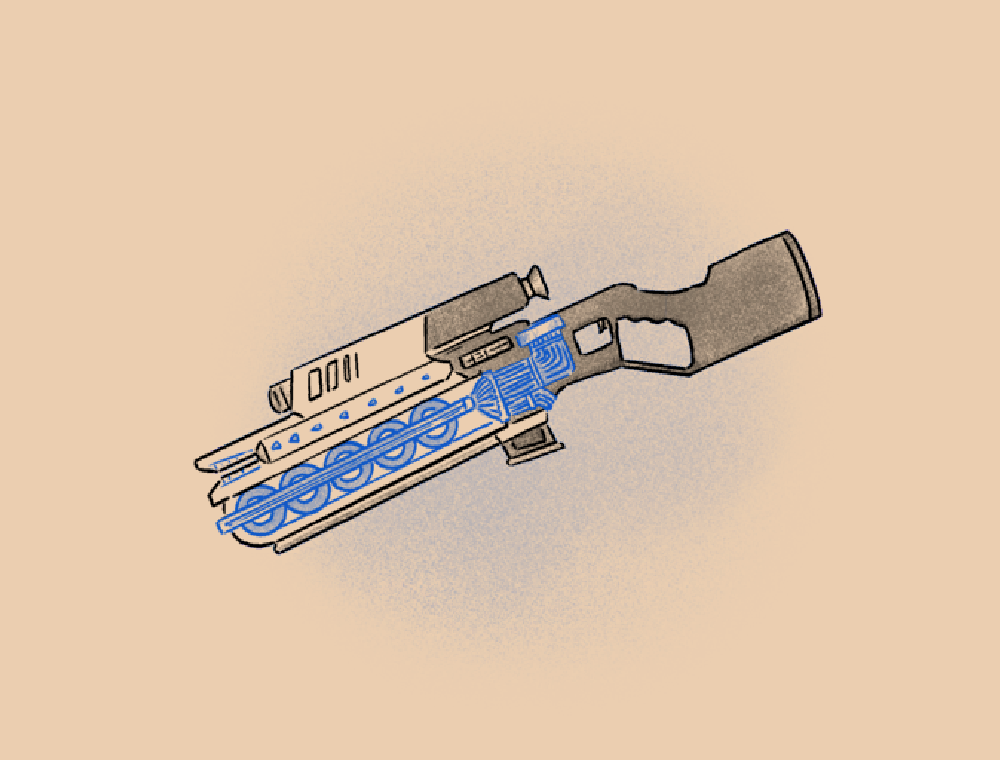
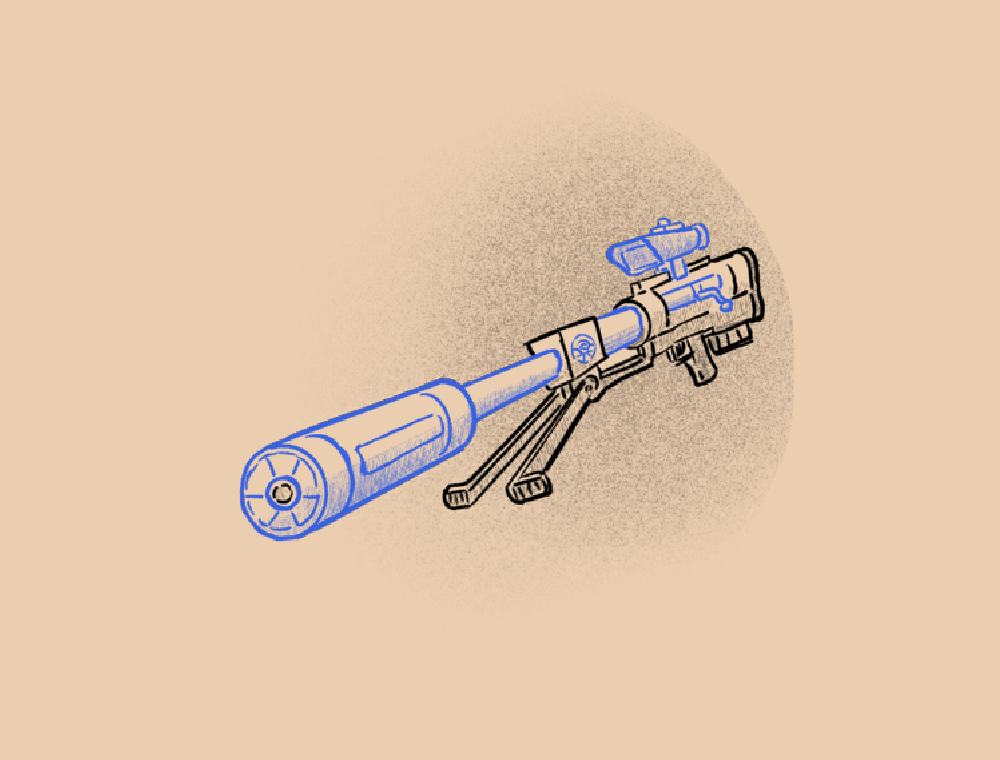
英文词条译名对齐：增幅=Kick、回响=Rebound（含卡面引用）

Changed region(s): [[0.186, 0.2118, 0.837, 0.8171]]

diff --git a/GaoshouCode/Patches/PhantomPortraitPatch.cs b/GaoshouCode/Patches/PhantomPortraitPatch.cs
@@ -1,0 +1,68 @@
+using Godot;
+using Gaoshou.Keywords;
+using MegaCrit.Sts2.Core.Models;
+using STS2RitsuLib.Patching.Models;
+using STS2RitsuLib.Scaffolding.Content;
+
+namespace Gaoshou.Patches;
+
+/// <summary>
+/// 幻影副本按"分配到的单色"切换卡面。
+///
+/// 背景：双色卡的幻影/复制品在创建时会被 <see cref="PhantomColorRegistry" /> 分配**一个**主色
+/// （<c>PhantomCloneColorPatch</c> / <c>PhantomSingleton</c> 两处登记），mana 释义与[gold]流转[/gold]判定
+/// 都已经按它走；只有**卡面**还是本体那张双色图。这里补上卡面：
+/// 若该卡实例有分配色，且存在对应的单色图 <c>res://Gaoshou/images/cards/&lt;类名&gt;_&lt;色码&gt;.png</c>
+/// （色码 R/B/P/G，对应 <see cref="GaoshouCardColor" /> 的四个单色），就用它替换立绘路径；否则原样返回。
+///
+/// 挂钩点：<c>ModCardTemplate.CustomPortraitPath</c>（RitsuLib 的虚属性，见 STS2-RitsuLib 源码
+/// <c>ModCardTemplate.cs:65</c>）。本模组所有卡牌都没有覆写它 → 打在基类 getter 上即可覆盖全部卡牌；
+/// 其它模组的卡与本模组没做单色图的卡都不受影响（找不到图就回落）。
+/// </summary>
+public sealed class PhantomPortraitPatch : IPatchMethod
+{
+    public static string PatchId => "gaoshou_phantom_portrait";
+
+    public static string Description => "phantom copies of dual-color cards use their assigned single-color art";
+
+    public static bool IsCritical => false;
+
+    public static ModPatchTarget[] GetTargets() =>
+    [
+        PatchTarget.Method<ModCardTemplate>("get_CustomPortraitPath"),
+    ];
+
+    public static void Postfix(ModCardTemplate __instance, ref string? __result)
+    {
+        if (__instance == null)
+            return;
+
+        if (!PhantomColorRegistry.TryGet(__instance, out var color))
+            return;
+
+        var variant = VariantPath(__instance, color);
+        if (variant != null)
+            __result = variant;
+    }
+
+    /// <summary>单色 → 文件名后缀；找不到对应图（或不是单色）时返回 null，调用方保持原卡面。</summary>
+    private static string? VariantPath(CardModel card, GaoshouCardColor color)
+    {
+        var suffix = color switch
+        {
+            GaoshouCardColor.Red => "R",
+            GaoshouCardColor.Blue => "B",
+            GaoshouCardColor.Purple => "P",
+            GaoshouCardColor.Green => "G",
+            _ => null,
+        };
+
+        if (suffix == null)
+            return null;
+
+        var path = $"{Entry.ResPath}/images/cards/{card.GetType().Name}_{suffix}.png";
+
+        // 没做单色图的卡（目前只有杠杆霰弹枪做了 R/P）自动回落本体卡面，不会出现空图。
+        return ResourceLoader.Exists(path) ? path : null;
+    }
+}

diff --git a/GaoshouCode/Cards/Acupoint.cs b/GaoshouCode/Cards/Acupoint.cs
@@ -12,7 +12,7 @@ using STS2RitsuLib.Scaffolding.Content;
 
 namespace Gaoshou.Cards;
 
-// 点穴手：技能（普通）。耗 1 能量。施加 1 层虚弱、1 层易伤。增幅2（升级后4）。
+// 点穴手：技能（普通）。耗 1 能量。施加 1 层虚弱、1 层易伤。增幅1（升级后2）。
 // 增幅机制（弃置手牌后重复打出）暂未实装，仅展示词条与数值。
 [RegisterCard(typeof(GaoshouCardPool))]
 public sealed class Acupoint : ModCardTemplate
@@ -42,7 +42,7 @@ public sealed class Acupoint : ModCardTemplate
     [
         ModCardVars.Power<WeakPower>(1),
         ModCardVars.Power<VulnerablePower>(1),
-        ModCardVars.Int("AmplifyCount", 2),
+        ModCardVars.Int("AmplifyCount", 1),
     ];
 
     public Acupoint() : base(BaseEnergyCost, CardKind, CardRarityValue, CardTarget, ShowInCardLibrary)
@@ -64,13 +64,13 @@ public sealed class Acupoint : ModCardTemplate
         ArgumentNullException.ThrowIfNull(cardPlay.Target);
         await MainOnceAsync(choiceContext, cardPlay);
 
-        // 增幅 2(4)：弃置手牌中最多 AmplifyCount 张，然后按实际弃置数重放。
+        // 增幅 1(2)：弃置手牌中最多 AmplifyCount 张，然后按实际弃置数重放。
         var amplifyCount = (int)DynamicVars.GetRequired<IntVar>("AmplifyCount").BaseValue;
         await this.AmplifyAsync(choiceContext, amplifyCount, ctx => MainOnceAsync(ctx, cardPlay));
     }
 
     protected override void OnUpgrade()
     {
-        DynamicVars.GetRequired<IntVar>("AmplifyCount").UpgradeValueBy(2);   // 2 -> 4
+        DynamicVars.GetRequired<IntVar>("AmplifyCount").UpgradeValueBy(1);   // 1 -> 2
     }
 }

diff --git a/GaoshouCode/Cards/Breath.cs b/GaoshouCode/Cards/Breath.cs
@@ -11,8 +11,8 @@ using STS2RitsuLib.Scaffolding.Content;
 
 namespace Gaoshou.Cards;
 
-// 呼吸：技能（罕见）。耗 1 能量（升级 0）。
-// 若被打出：抽 4 张牌，消耗。若被弃置：获得 1 能量（不消耗）。
+// 呼吸：技能（罕见）。耗 1 能量。
+// 若被打出：抽 3（4） 张牌，消耗。若被弃置：获得 1 能量（不消耗）。
 [RegisterCard(typeof(GaoshouCardPool))]
 public sealed class Breath : ModCardTemplate
 {
@@ -36,7 +36,7 @@ public sealed class Breath : ModCardTemplate
     protected override IEnumerable<DynamicVar> CanonicalVars =>
     [
         ModCardVars.Energy("Energy", 1),
-        ModCardVars.Int("Cards", 4),
+        ModCardVars.Int("Cards", 3),
     ];
 
     public Breath() : base(BaseEnergyCost, CardKind, CardRarityValue, CardTarget, ShowInCardLibrary)
@@ -45,7 +45,7 @@ public sealed class Breath : ModCardTemplate
 
     protected override async Task OnPlay(PlayerChoiceContext choiceContext, CardPlay cardPlay)
     {
-        // 若被打出：抽 4 张牌（消耗由 Exhaust 词条处理）。
+        // 若被打出：抽 3（4） 张牌（消耗由 Exhaust 词条处理）。
         await CardPileCmd.Draw(choiceContext, DynamicVars.GetRequired<IntVar>("Cards").BaseValue, Owner);
     }
 
@@ -59,6 +59,7 @@ public sealed class Breath : ModCardTemplate
 
     protected override void OnUpgrade()
     {
-        EnergyCost.UpgradeBy(-1);   // 能量 1 -> 0
+        // EnergyCost.UpgradeBy(-1);   // 能量 1 -> 0
+        DynamicVars.GetRequired<IntVar>("Cards").UpgradeValueBy(1);
     }
 }

diff --git a/GaoshouCode/Cards/SlowSword.cs b/GaoshouCode/Cards/SlowSword.cs
@@ -62,14 +62,19 @@ public override CardAssetProfile AssetProfile => new(
     {
         await CreatureCmd.GainBlock(Owner.Creature, DynamicVars.Block, cardPlay);
 
-        // 奇迹：非回合开始时抽牌进入手牌 → 对随机敌人造成 10(15) 点伤害。
+        // 奇迹：非回合开始时抽牌进入手牌 → 对~~随机~~所有敌人造成 10(15) 点伤害。
         if (MiracleCounter.IsMiracleReady(this))
         {
-            var enemies = (this.CombatState?.HittableEnemies ?? []).ToList();
+            /*var enemies = (this.CombatState?.HittableEnemies ?? []).ToList();
             var random = enemies.Count > 0 ? Owner.RunState.Rng.CombatTargets.NextItem(enemies) : null;
             if (random != null)
                 await DamageCmd.Attack(DynamicVars.GetRequired<DamageVar>("miracle").BaseValue)
                     .FromCard(this, cardPlay).Targeting(random).Execute(choiceContext);
+                    */
+            await DamageCmd.Attack(DynamicVars.GetRequired<DamageVar>("miracle").BaseValue)
+                .FromCard(this, cardPlay)
+                .TargetingAllOpponents(this.CombatState)
+                .Execute(choiceContext);
         }
     }
 

diff --git a/GaoshouCode/Cards/Reconsider.cs b/GaoshouCode/Cards/Reconsider.cs
@@ -12,14 +12,14 @@ using STS2RitsuLib.Scaffolding.Content;
 
 namespace Gaoshou.Cards;
 
-// 重整思路：技能（罕见）。耗 0 能量 0 辉星。
+// 重整思路：技能（罕见）。耗 1 能量 0 辉星。
 // 弃掉所有手牌，抽 4 张牌；奇迹（默认直接触发）：获得 1 能量、1 辉星。消耗（升级后移除）。
 [RegisterCard(typeof(GaoshouCardPool))]
 public sealed class Reconsider : ModCardTemplate
 {
     public GaoshouCardColor CardColor => GaoshouCardColor.Blue;
 
-    private const int BaseEnergyCost = 0;
+    private const int BaseEnergyCost = 1;
     private const CardType CardKind = CardType.Skill;
     private const CardRarity CardRarityValue = CardRarity.Uncommon;
     private const TargetType CardTarget = TargetType.Self;
@@ -77,5 +77,6 @@ public sealed class Reconsider : ModCardTemplate
         // 升级后移除"消耗"（直接改实例词条）。
         // RemoveKeyword(CardKeyword.Exhaust);
         AddKeyword(CardKeyword.Retain);
+        // EnergyCost.UpgradeBy(-1);
     }
 }

diff --git a/GaoshouCode/Cards/TakeCover.cs b/GaoshouCode/Cards/TakeCover.cs
@@ -12,7 +12,7 @@ using STS2RitsuLib.Scaffolding.Content;
 
 namespace Gaoshou.Cards;
 
-// 寻找掩护：技能（普通）。耗 2 能量。获得 9(12) 层格挡；下回合开始时获得 1 辉星。
+// 寻找掩护：技能（普通）。耗 2 能量。获得 11(15) 层格挡；下回合开始时获得 1 辉星。
 [RegisterCard(typeof(GaoshouCardPool))]
 public sealed class TakeCover : ModCardTemplate
 {
@@ -31,7 +31,7 @@ public sealed class TakeCover : ModCardTemplate
 
     protected override IEnumerable<DynamicVar> CanonicalVars =>
     [
-        new BlockVar(9m, ValueProp.Move),
+        new BlockVar(11m, ValueProp.Move),
         ModCardVars.Stars("Stars", 1),
     ];
 
@@ -50,7 +50,7 @@ public sealed class TakeCover : ModCardTemplate
 
     protected override void OnUpgrade()
     {
-        DynamicVars.Block.UpgradeValueBy(3);   // 9 -> 12
+        DynamicVars.Block.UpgradeValueBy(4);   // 11 -> 15
         DynamicVars.GetRequired<StarsVar>("Stars").UpgradeValueBy(1);   // 下回合辉星 1 -> 2
     }
 }

diff --git a/GaoshouCode/Cards/SeeThrough.cs b/GaoshouCode/Cards/SeeThrough.cs
@@ -32,6 +32,7 @@ public sealed class SeeThrough : ModCardTemplate
     [
         HoverTipFactory.FromPower<VulnerablePower>(),
         HoverTipFactory.FromPower<WeakPower>(),
+        HoverTipFactory.FromPower<ArtifactPower>(), // 追加人工制品
     ];
 
     public override IEnumerable<CardKeyword> CanonicalKeywords =>
@@ -53,7 +54,11 @@ public sealed class SeeThrough : ModCardTemplate
     {
         ArgumentNullException.ThrowIfNull(cardPlay.Target);
 
-        // 对目标敌人施加 3 层易伤、3 层虚弱。
+        // 对目标敌人施加 3 层易伤、3 层虚弱。追加移除人工。
+        if (cardPlay.Target.HasPower<ArtifactPower>())
+		{
+			await PowerCmd.Remove<ArtifactPower>(cardPlay.Target);
+		}
         await PowerCmd.Apply<VulnerablePower>(choiceContext, cardPlay.Target,
             DynamicVars.GetRequired<PowerVar<VulnerablePower>>("VulnerablePower").BaseValue, Owner.Creature, this);
         await PowerCmd.Apply<WeakPower>(choiceContext, cardPlay.Target,

diff --git a/GaoshouCode/Cards/LimitBreak.cs b/GaoshouCode/Cards/LimitBreak.cs
@@ -13,7 +13,7 @@ using STS2RitsuLib.Scaffolding.Content;
 
 namespace Gaoshou.Cards;
 
-// 突破极限：技能（普通）。耗 0 能量。抽 3(4) 张牌；随后将 1 张“凋萎”状态牌加入弃牌堆（暂未实装）。
+// 突破极限：技能（普通）。耗 0 能量。抽 3(4) 张牌；随后将 1 张“凋萎”状态牌加入~~弃牌~~抽牌堆。
 [RegisterCard(typeof(GaoshouCardPool))]
 public sealed class LimitBreak : ModCardTemplate
 {
@@ -53,7 +53,7 @@ public sealed class LimitBreak : ModCardTemplate
         {
             var wither = Owner.Creature.CombatState?.CreateCard(ModelDb.Card<Wither>(), Owner);
             if (wither != null)
-                CardCmd.PreviewCardPileAdd(await CardPileCmd.AddGeneratedCardToCombat(wither, PileType.Discard, Owner));
+                CardCmd.PreviewCardPileAdd(await CardPileCmd.AddGeneratedCardToCombat(wither, PileType.Draw, Owner));
         }
     }
 

diff --git a/GaoshouCode/Powers/LoomingPresencePower.cs b/GaoshouCode/Powers/LoomingPresencePower.cs
@@ -1,3 +1,4 @@
+using MegaCrit.Sts2.Core.Localization;
 using System.Collections.Generic;
 using System.Linq;
 using System.Threading.Tasks;
@@ -57,5 +58,19 @@ public sealed class LoomingPresencePower : ModPowerTemplate
         }
         Amount -= loss;
         InvokeDisplayAmountChanged();
+    }
+
+    /// <summary>
+    /// 卡面上的能力悬浮释义走的是这里（HoverTipFactory.FromPower），不是 loc 表的自动注入路径，
+    /// 所以必须自己把 DynamicVars 加进去；否则会出现 {LossPerHit} 原文。
+    /// </summary>
+    public override LocString Description
+    {
+        get
+        {
+            var text = base.Description;
+            DynamicVars.AddTo(text);
+            return text;
+        }
     }
 }

diff --git a/GaoshouCode/Entry.cs b/GaoshouCode/Entry.cs
@@ -125,6 +125,8 @@ public partial class Entry
         patcher.RegisterPatch<VanillaEventDisablePatch>();
         // 事件插图叠加：10 个事件共用一张 notebook 底图，各自的小插图在这里贴到 %Portrait 左半。
         patcher.RegisterPatch<EventArtOverlayPatch>();
+        // 幻影副本按分配到的单色切换卡面（<类名>_R/_B/_P/_G.png，找不到就回落本体卡面）。
+        patcher.RegisterPatch<PhantomPortraitPatch>();
         if (!patcher.PatchAll())
             Logger.Error("Patch application failed!");
 

diff --git a/GaoshouCode/Cards/FistOfStupid.cs b/GaoshouCode/Cards/FistOfStupid.cs
@@ -15,7 +15,7 @@ using STS2RitsuLib.Scaffolding.Content;
 
 namespace Gaoshou.Cards;
 
-// 没脑子拳：攻击（罕见）。耗 0 能量。对随机敌人造成 2 点伤害 2 次；将 1 张眩晕加入你的弃牌堆。
+// 没脑子拳：攻击（罕见）。耗 0 能量。对随机敌人造成 2 点伤害 3(4) 次；将 1 张眩晕加入你的弃牌堆。
 // 风暴（能量、能量）：满足时重复打出一次。
 [RegisterCard(typeof(GaoshouCardPool))]
 public sealed class FistOfStupid : ModCardTemplate

diff --git a/GaoshouCode/Cards/TornadoDicimatesTrailerPark.cs b/GaoshouCode/Cards/TornadoDicimatesTrailerPark.cs
@@ -74,7 +74,7 @@ public sealed class TornadoDicimatesTrailerPark : ModCardTemplate
                 .TargetingAllOpponents(this.CombatState)
                 .Execute(choiceContext);
 
-        // 获得 2 点临时力量（同步等量力量）。
+        // 获得 1 点临时力量（同步等量力量）。
         await GaoshouTemporaryStrengthPower.GrantAsync(choiceContext, Owner.Creature,
             DynamicVars.GetRequired<IntVar>("TemporaryStrength").BaseValue, Owner.Creature, this);
     }
